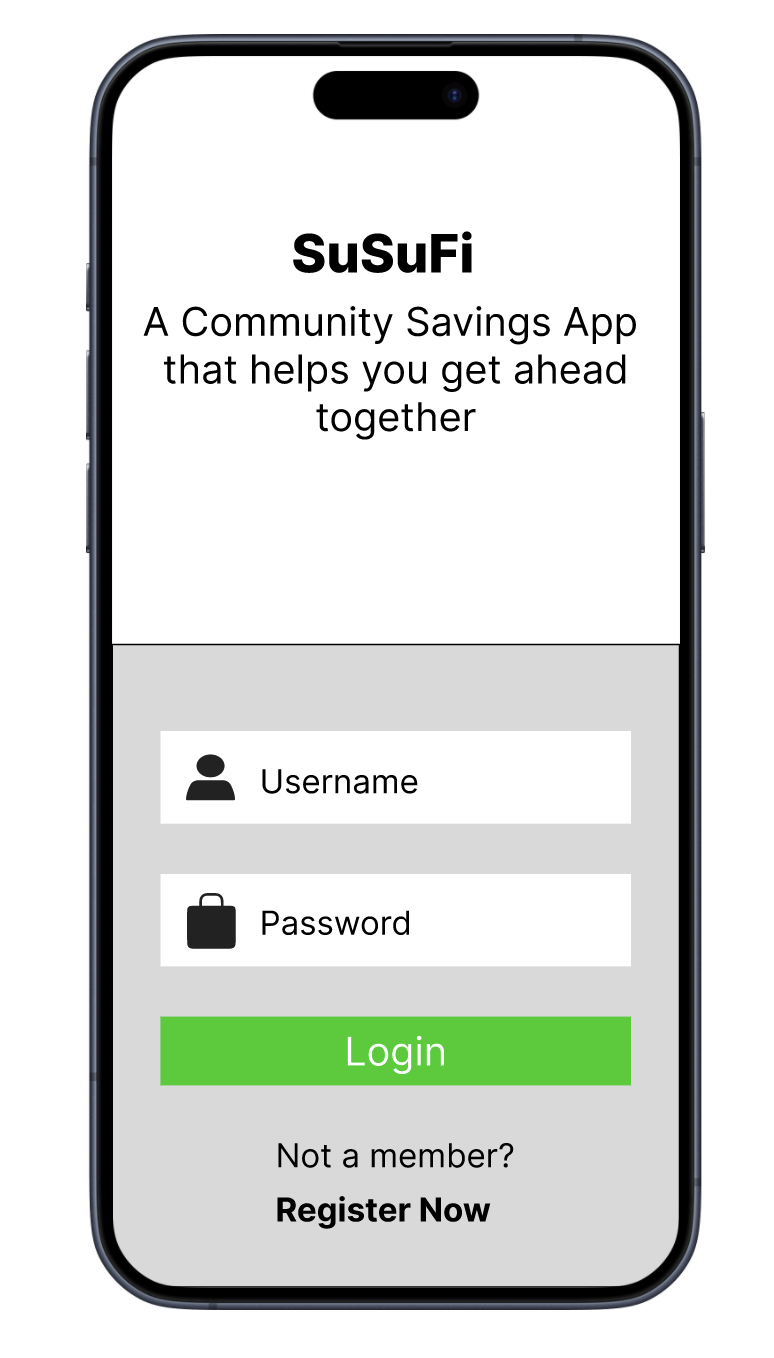
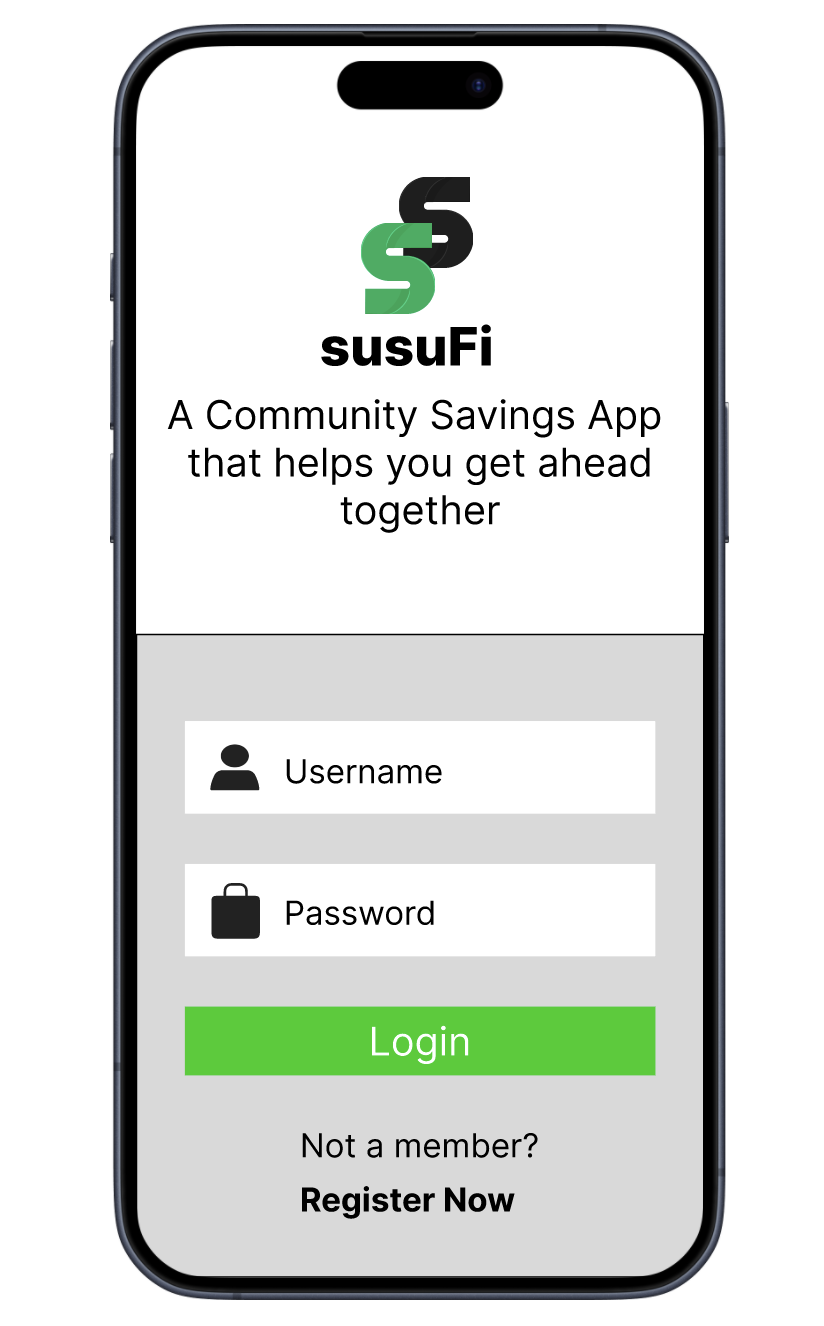
wip

Changed region(s): [[0.093, 0.0, 0.9302, 0.9894]]

diff --git a/pages/earlyaccess/index.js b/pages/earlyaccess/index.js
@@ -60,7 +60,11 @@ export default function EarlyAccess() {
 
           <h3>How to Get Early Access: </h3>
           <p>
-          We'll send you an email to help you get started on your journey to early access. To become an early access user and unlock the future of our app, simply complete the provided form. We'll walk you through the process, allowing you to dive into the app's potential and actively contribute to its development.
+            We'll send you an email to help you get started on your journey to
+            early access. To become an early access user and unlock the future
+            of our app, simply complete the provided form. We'll walk you
+            through the process, allowing you to dive into the app's potential
+            and actively contribute to its development.
           </p>
         </div>
 

diff --git a/pages/index.js b/pages/index.js
@@ -47,6 +47,18 @@ export default function Index() {
   return (
     <Container>
       <Row>
+        <Col md="7" lg="7" sm="8">
+          <div className="logo">
+            <img
+              style={{ height: '40px', width: '40px' }}
+              src="/images/logo.png"
+            />
+          </div>
+        </Col>
+        <Col md="7" lg="7" sm="2" className=" justify-content-start">
+          <div>SuSuFi</div>
+        </Col>
+
         <Col
           md="7"
           lg="7"
